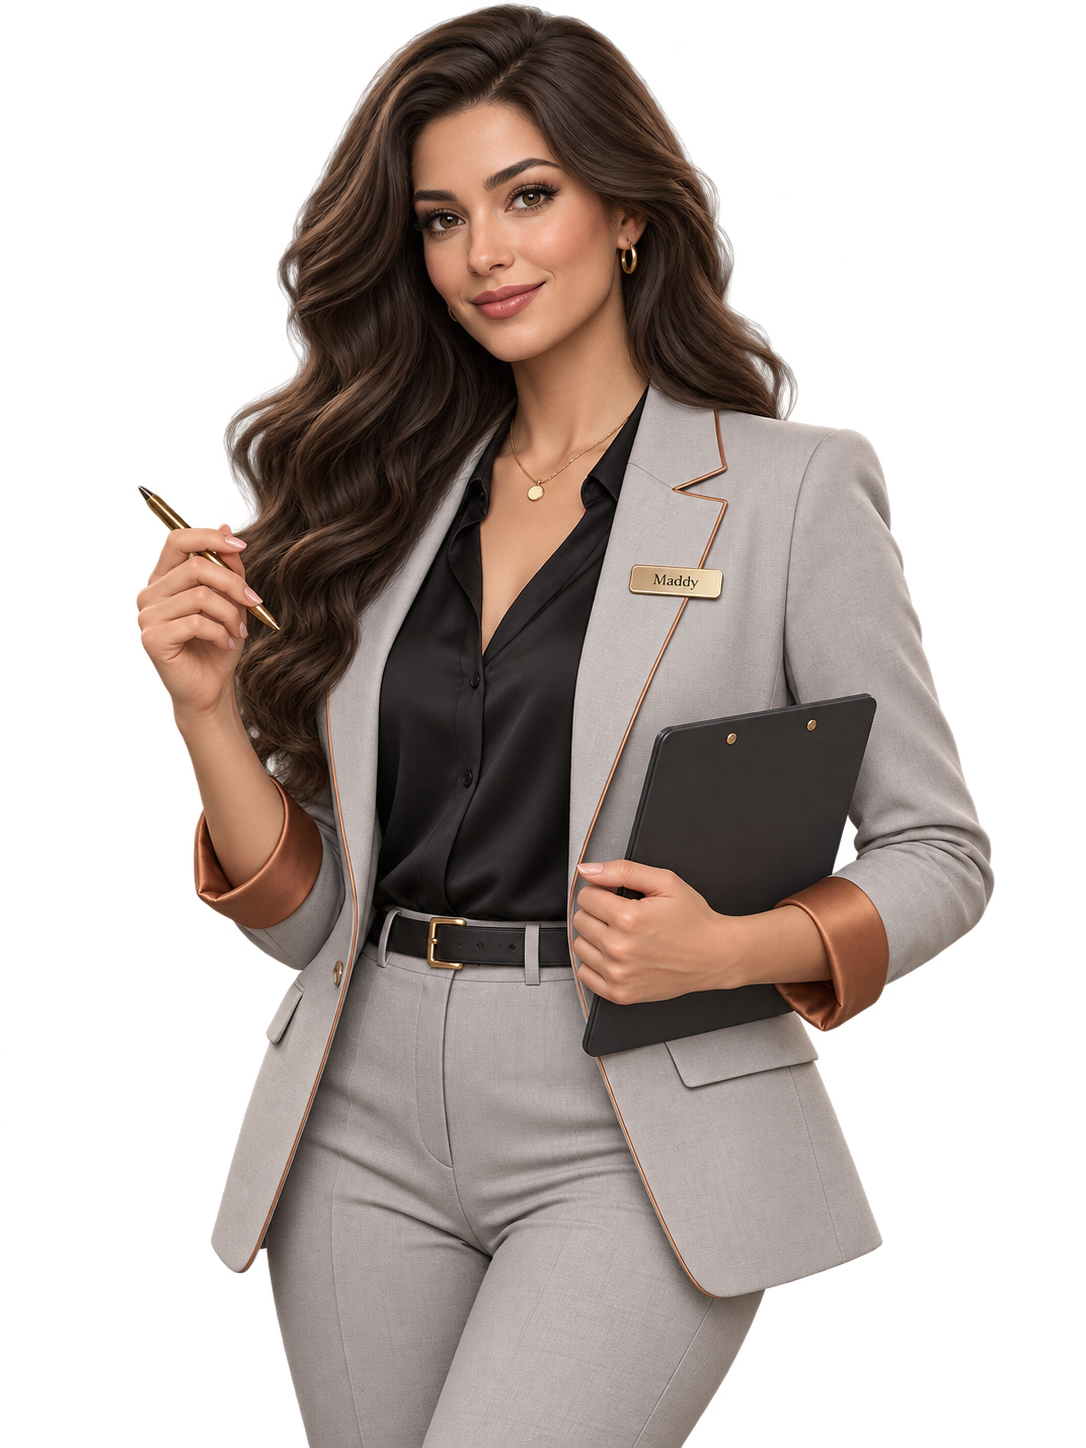
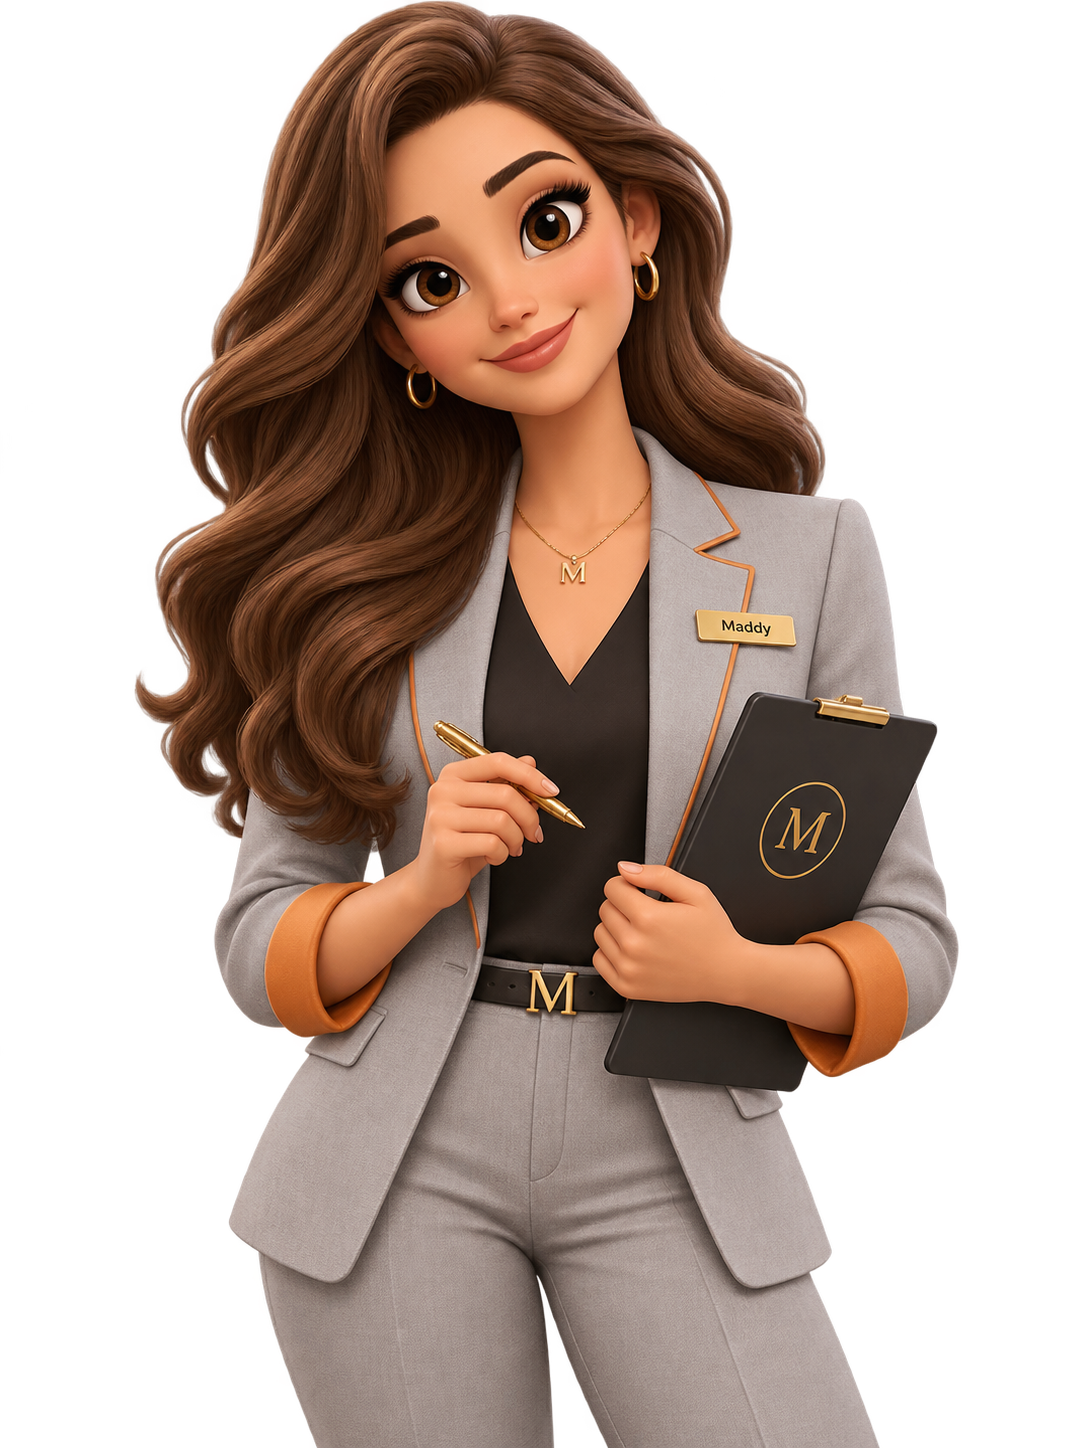
fix: retain animated 3D character style for Maddy HD

diff --git a/docs/MADDY_ENTRANCE_HD.md b/docs/MADDY_ENTRANCE_HD.md
@@ -1,11 +1,11 @@
-# Maddy — nueva versión para entradas
+# Maddy — versión animada HD para entradas
 
-El propietario autorizó el9 de septiembre de2026 generar una nueva versión; aclaró que no existe una identidad de personaje definitiva. El logo corporativo no cambia.
+El propietario autorizó generar una nueva Maddy el 9 de septiembre de 2026 y corrigió explícitamente que debe conservar el estilo de personaje animado 3D, nunca hiperrealista. La primera variante fotográfica quedó rechazada antes de publicar; se reemplaza por esta versión animada. El logo corporativo no cambia.
 
-Recurso: public/assets/brand/maddy-entrance-hd.webp,1086×1448RGBA, compresión WebP sin pérdida. Generado con Image Gen incorporado; no es una ampliación de la copia420×560. La transparencia se comprobó como canal alfa real con extremos0 y255. No se usan filtros de color ni mezclas CSS. El tamaño de presentación se limita a720px de alto en escritorio para disponer de resolución suficiente a densidad2x. El recurso antiguo de carga continúa disponible para sus otros usos.
+Recurso: public/assets/brand/maddy-entrance-hd.webp, 1086×1448 RGBA, compresión WebP sin pérdida. Generado con Image Gen incorporado; no es interpolación del recurso 420×560. Alfa real comprobado entre 0 y 255; sin filtros ni mezclas CSS. Tamaño de presentación máximo 720 px de alto en escritorio para disponer de suficientes píxeles en densidad 2x.
 
-Dirección: asistente adulta, cabello largo ondulado castaño, ojos cafés, traje gris neutro con detalles cobre, blusa negra, tableta y lapicero, iluminación suave, sin saturación naranja. Mayor detalle en cabello, manos y tela. La nueva generación tiene rasgos más naturales que la versión anterior, diferencia autorizada por la instrucción de regenerarla.
+Dirección aplicada: personaje femenino adulto de película animada 3D, ojos cafés grandes, cabeza ligeramente ampliada, nariz pequeña estilizada, mejillas suaves y sonrisa amistosa; cabello largo castaño ondulado; traje gris con detalles y puños cobre, blusa negra, tableta oscura con M y lapicero dorado. Colores controlados, materiales suaves, sin piel fotográfica ni poros.
 
-Prompt de producción: Create one brand character asset for Maderarte furniture store: MADDY, a polished high-end 3D editorial female brand assistant, adult around30, natural warm neutral skin without orange saturation, long flowing wavy dark brown hair, expressive brown eyes, softly arched brows, subtle confident closed-mouth smile. Elegant tailored neutral light grey pantsuit, very fine copper piping on lapels, restrained warm copper turned cuffs, black blouse, thin gold necklace, small gold hoop earrings, black belt with simple gold buckle. Three-quarter pose facing slightly left, looking at viewer, standing from head to mid-thigh, holding a slim charcoal clipboard against waist with LEFT hand and a gold pen naturally held in RIGHT hand, plausible anatomy and five fingers. Small tasteful badge reads Maddy. Contemporary tasteful premium stylized3D illustration, mature professional character, clean detailed hair strands and fabric, meticulous hands, soft neutral studio lighting, no excessive gloss, no patches, no painterly noise, no oversharpening. Create a NEW high-resolution rendition, not pixel interpolation. Highest resolution portrait3:4 at least1536x2048. Entire hair and arms within frame, figure fills height, mid-thigh cropped flush at bottom. ISOLATED CUTOUT ON ACTUAL TRANSPARENT BACKGROUND: PNG alpha, empty background pixels transparent, no checkerboard pattern, no colored/white/black background, no backdrop, no floor, no cast shadow, no text outside badge, no watermark. This is a production character cutout to overlay grey and graphite HTML backgrounds.
+Prompt de producción: Create a premium STYLIZED 3D ANIMATED MOVIE CHARACTER named Maddy, a friendly adult female furniture-store brand mascot. Unmistakably 3D CARTOON, not photograph or realistic woman. Large brown cartoon eyes, slightly oversized head, simplified nose, rounded smooth cheeks, animated smile, sculpted facial surfaces, no photographic skin. Long chestnut hair in sculpted waves, grey tailored blazer and trousers, copper-orange lapel piping and cuffs, black V-neck blouse, gold M pendant and hoop earrings, Maddy badge, black belt with M buckle. Head to upper thighs, slight head tilt, holding charcoal clipboard with gold M and gold pen, natural five-finger hands. Premium family-animation sculpting, soft diffuse lighting, restrained saturation, refined detail. New illustration, highest resolution portrait 3:4, real transparent alpha PNG, no checkerboard, backdrop, floor or watermark.
 
-El tamaño solicitado era mayor; el tamaño efectivo del resultado es1086×1448. Se documenta la medida real.
+El resultado efectivo es 1086×1448. Los otros usos del recurso pequeño de carga permanecen independientes.
